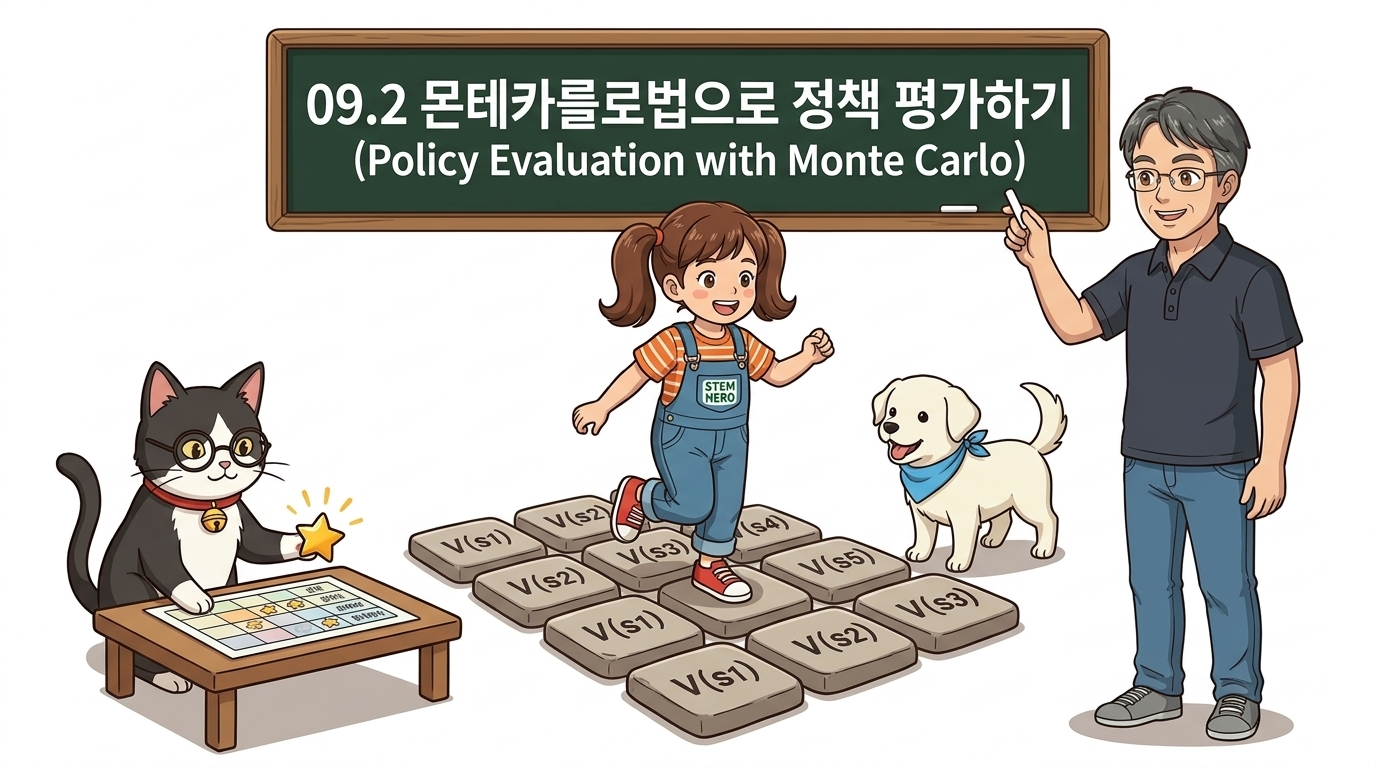
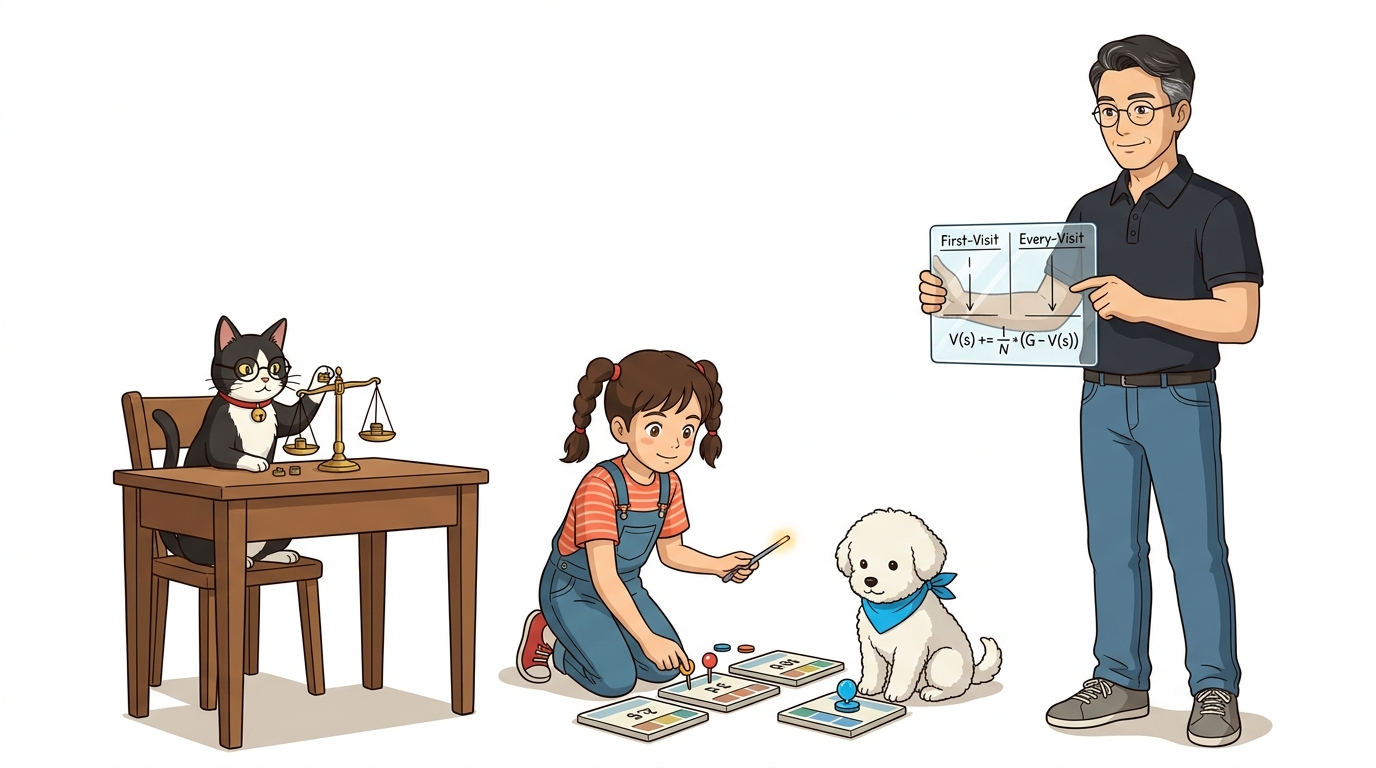
feat(ch09): 9장 몬테카를로법 전 서브챕터(9_0~9_6) 커버 이미지 및 프롬프트 재정의 생성, 지킬 빌드 완료

diff --git a/docs/09_몬테카를로법/9_0_수학적기초/index.html b/docs/09_몬테카를로법/9_0_수학적기초/index.html
@@ -631,6 +631,11 @@
         <div class="bd-content ps-lg-4">
             <h1 id="090-몬테카를로법의-수학적-기초와-역사적-유래">09.0 몬테카를로법의 수학적 기초와 역사적 유래</h1>
 
+<p><img src="./9_0_수학적기초.png" alt="09.0 몬테카를로법의 수학적 기초와 역사적 유래" />
+<strong>그림 09-0-Intro</strong> 무작위 점들을 투하하여 원주율($\pi$)을 추정하며 대수의 법칙과 몬테카를로 근사를 체득하는 이호진 교수와 도로시 탐험대</p>
+
+<hr />
+
 <p>강화학습에서 환경의 수학적 모델(상태 전이 확률과 보상 함수)을 전혀 알지 못해도, 에이전트가 세상에 직접 발을 내딛고 겪은 수많은 실제 모험(에피소드) 샘플들을 모아 평균을 내어 최적 가치와 정책을 찾아내는 기법을 <strong>몬테카를로법(Monte Carlo Method)</strong>이라고 부릅니다.</p>
 
 <p><img src="./img/01_monte_carlo_history_lecture.png" alt="몬테카를로 역사 인트로" />

diff --git a/docs/09_몬테카를로법/9_2_몬테카를로법으로_정책_평가하기/index.html b/docs/09_몬테카를로법/9_2_몬테카를로법으로_정책_평가하기/index.html
@@ -631,6 +631,11 @@
         <div class="bd-content ps-lg-4">
             <h1 id="092-몬테카를로법으로-정책-평가하기">09.2 몬테카를로법으로 정책 평가하기</h1>
 
+<p><img src="./9_2_몬테카를로법으로_정책_평가하기.png" alt="09.2 몬테카를로법으로 정책 평가하기" />
+<strong>그림 09-2-Intro</strong> 처음 방문(First-Visit)과 모든 방문의 차이를 파악하고 증분 평균으로 상태 가치를 갱신하는 이호진 교수와 도로시 탐험대</p>
+
+<hr />
+
 <p>주어진 정책 <em>π</em>에 따라 에피소드 시뮬레이션을 반복하여 상태 가치 함수 <em>v</em><sub><em>π</em></sub>(<em>s</em>)를 근사하는 <strong>정책 평가(Policy Evaluation)</strong> 과정을 배웁니다.</p>
 
 <hr />

diff --git a/docs/09_몬테카를로법/9_4_몬테카를로법으로_정책_제어하기/index.html b/docs/09_몬테카를로법/9_4_몬테카를로법으로_정책_제어하기/index.html
@@ -631,6 +631,11 @@
         <div class="bd-content ps-lg-4">
             <h1 id="094-몬테카를로법으로-정책-제어하기">09.4 몬테카를로법으로 정책 제어하기</h1>
 
+<p><img src="./9_4_몬테카를로법으로_정책_제어하기.png" alt="09.4 몬테카를로법으로 정책 제어하기" />
+<strong>그림 09-4-Intro</strong> 행동 가치 $Q(s, a)$와 $\epsilon$-탐욕 정책을 결합하여 최적 정책을 자율 제어하는 이호진 교수와 도로시 탐험대</p>
+
+<hr />
+
 <p>가치 함수 평가를 넘어 최적 정책을 스스로 찾아 나가는 <strong>정책 제어(Policy Control)</strong>와 탐색-이용의 균형을 다룹니다.</p>
 
 <p><img src="./img/01_mc_control_intro.png" alt="몬테카를로 정책 제어 인트로" />

diff --git a/docs/09_몬테카를로법/9_1_몬테카를로법_기초/index.html b/docs/09_몬테카를로법/9_1_몬테카를로법_기초/index.html
@@ -631,6 +631,11 @@
         <div class="bd-content ps-lg-4">
             <h1 id="091-몬테카를로법-기초">09.1 몬테카를로법 기초</h1>
 
+<p><img src="./9_1_몬테카를로법_기초.png" alt="09.1 몬테카를로법 기초" />
+<strong>그림 09-1-Intro</strong> 모델 없는 미지의 환경에서 실제 에피소드를 완주하며 경험적 반환값($G_t$)을 수집하는 이호진 교수와 도로시 탐험대</p>
+
+<hr />
+
 <p>몬테카를로법(Monte Carlo Method)의 대수적 기초를 공부합니다.</p>
 
 <p>무작위 샘플링을 반복하여 원하는 참값을 추정해내는 원리를 이해하기 위해, 주사위 던지기 실험 및 알려지지 않은 환경 모델의 비유를 통해 샘플 모델의 핵심을 파악해 봅시다!</p>

diff --git a/docs/09_몬테카를로법/9_5_오프-정책과_중요도_샘플링/index.html b/docs/09_몬테카를로법/9_5_오프-정책과_중요도_샘플링/index.html
@@ -631,6 +631,11 @@
         <div class="bd-content ps-lg-4">
             <h1 id="095-오프-정책과-중요도-샘플링">09.5 오프-정책과 중요도 샘플링</h1>
 
+<p><img src="./9_5_오프-정책과_중요도_샘플링.png" alt="09.5 오프-정책과 중요도 샘플링" />
+<strong>그림 09-5-Intro</strong> 행동 정책과 목표 정책의 괴리를 중요도 샘플링 비율($\rho$)로 완벽히 보정하는 이호진 교수와 도로시 탐험대</p>
+
+<hr />
+
 <p>에이전트가 ‘행동하는 정책’과 ‘학습하려는 대상 정책’이 서로 다를 때 활용하는 <strong>오프-정책(Off-policy)</strong> 학습법을 배웁니다.</p>
 
 <p><img src="./img/01_off_policy_intro.png" alt="중요도 샘플링 인트로" />

diff --git a/docs/09_몬테카를로법/9_6_정리/index.html b/docs/09_몬테카를로법/9_6_정리/index.html
@@ -631,6 +631,11 @@
         <div class="bd-content ps-lg-4">
             <h1 id="096-정리">09.6 정리</h1>
 
+<p><img src="./9_6_정리.png" alt="09.6 정리" />
+<strong>그림 09-6-Intro</strong> 모델-프리 경험 학습의 기둥인 몬테카를로법을 총결산하고 1단계 시간차 학습(TD)으로 전진하는 이호진 교수와 도로시 탐험대</p>
+
+<hr />
+
 <p>환경 모델을 전혀 모르는 완전한 백지상태에서도 오직 실제 부딪히며 얻은 경험만으로 가치 함수를 평가하고 최적 정책을 자율 제어해 낸 9장의 대장정을 총결산합니다.</p>
 
 <p><img src="./img/01_ch9_grand_summary_intro.png" alt="9장 정리 인트로" />

diff --git a/docs/09_몬테카를로법/9_3_몬테카를로법_구현/index.html b/docs/09_몬테카를로법/9_3_몬테카를로법_구현/index.html
@@ -631,6 +631,11 @@
         <div class="bd-content ps-lg-4">
             <h1 id="093-몬테카를로법-구현">09.3 몬테카를로법 구현</h1>
 
+<p><img src="./9_3_몬테카를로법_구현.png" alt="09.3 몬테카를로법 구현" />
+<strong>그림 09-3-Intro</strong> 파이썬 시뮬레이션으로 수천 번의 에피소드를 반복하며 상태 가치 수렴을 확인하는 이호진 교수와 도로시 탐험대</p>
+
+<hr />
+
 <p>파이썬 코드를 기반으로 몬테카를로(Monte Carlo, MC) 정책 평가 알고리즘을 한 줄 한 줄 직접 작성해 봅니다.</p>
 
 <p><img src="./img/01_mc_implementation_intro.png" alt="몬테카를로 구현 인트로" />

diff --git a/src/09_몬테카를로법/9_0_수학적기초/index.md b/src/09_몬테카를로법/9_0_수학적기초/index.md
@@ -5,6 +5,11 @@ title: "09.0 몬테카를로법의 수학적 기초와 역사적 유래"
 
 # 09.0 몬테카를로법의 수학적 기초와 역사적 유래
 
+![09.0 몬테카를로법의 수학적 기초와 역사적 유래](./9_0_수학적기초.png)
+**그림 09-0-Intro** 무작위 점들을 투하하여 원주율($\pi$)을 추정하며 대수의 법칙과 몬테카를로 근사를 체득하는 이호진 교수와 도로시 탐험대
+
+---
+
 강화학습에서 환경의 수학적 모델(상태 전이 확률과 보상 함수)을 전혀 알지 못해도, 에이전트가 세상에 직접 발을 내딛고 겪은 수많은 실제 모험(에피소드) 샘플들을 모아 평균을 내어 최적 가치와 정책을 찾아내는 기법을 **몬테카를로법(Monte Carlo Method)**이라고 부릅니다.
 
 

diff --git a/src/09_몬테카를로법/9_4_몬테카를로법으로_정책_제어하기/index.md b/src/09_몬테카를로법/9_4_몬테카를로법으로_정책_제어하기/index.md
@@ -5,6 +5,11 @@ title: "09.4 몬테카를로법으로 정책 제어하기"
 
 # 09.4 몬테카를로법으로 정책 제어하기
 
+![09.4 몬테카를로법으로 정책 제어하기](./9_4_몬테카를로법으로_정책_제어하기.png)
+**그림 09-4-Intro** 행동 가치 $Q(s, a)$와 $\epsilon$-탐욕 정책을 결합하여 최적 정책을 자율 제어하는 이호진 교수와 도로시 탐험대
+
+---
+
 가치 함수 평가를 넘어 최적 정책을 스스로 찾아 나가는 **정책 제어(Policy Control)**와 탐색-이용의 균형을 다룹니다. 
 
 ![몬테카를로 정책 제어 인트로](./img/01_mc_control_intro.png)

diff --git a/src/09_몬테카를로법/9_2_몬테카를로법으로_정책_평가하기/index.md b/src/09_몬테카를로법/9_2_몬테카를로법으로_정책_평가하기/index.md
@@ -5,6 +5,11 @@ title: "09.2 몬테카를로법으로 정책 평가하기"
 
 # 09.2 몬테카를로법으로 정책 평가하기
 
+![09.2 몬테카를로법으로 정책 평가하기](./9_2_몬테카를로법으로_정책_평가하기.png)
+**그림 09-2-Intro** 처음 방문(First-Visit)과 모든 방문의 차이를 파악하고 증분 평균으로 상태 가치를 갱신하는 이호진 교수와 도로시 탐험대
+
+---
+
 주어진 정책 *π*에 따라 에피소드 시뮬레이션을 반복하여 상태 가치 함수 *v*<sub>*π*</sub>(*s*)를 근사하는 **정책 평가(Policy Evaluation)** 과정을 배웁니다. 
 
 ---

diff --git a/src/09_몬테카를로법/9_5_오프-정책과_중요도_샘플링/index.md b/src/09_몬테카를로법/9_5_오프-정책과_중요도_샘플링/index.md
@@ -5,6 +5,11 @@ title: "09.5 오프-정책과 중요도 샘플링"
 
 # 09.5 오프-정책과 중요도 샘플링
 
+![09.5 오프-정책과 중요도 샘플링](./9_5_오프-정책과_중요도_샘플링.png)
+**그림 09-5-Intro** 행동 정책과 목표 정책의 괴리를 중요도 샘플링 비율($\rho$)로 완벽히 보정하는 이호진 교수와 도로시 탐험대
+
+---
+
 에이전트가 '행동하는 정책'과 '학습하려는 대상 정책'이 서로 다를 때 활용하는 **오프-정책(Off-policy)** 학습법을 배웁니다. 
 
 ![중요도 샘플링 인트로](./img/01_off_policy_intro.png)

diff --git a/src/09_몬테카를로법/9_6_정리/index.md b/src/09_몬테카를로법/9_6_정리/index.md
@@ -5,6 +5,11 @@ title: "09.6 정리"
 
 # 09.6 정리
 
+![09.6 정리](./9_6_정리.png)
+**그림 09-6-Intro** 모델-프리 경험 학습의 기둥인 몬테카를로법을 총결산하고 1단계 시간차 학습(TD)으로 전진하는 이호진 교수와 도로시 탐험대
+
+---
+
 환경 모델을 전혀 모르는 완전한 백지상태에서도 오직 실제 부딪히며 얻은 경험만으로 가치 함수를 평가하고 최적 정책을 자율 제어해 낸 9장의 대장정을 총결산합니다.
 
 ![9장 정리 인트로](./img/01_ch9_grand_summary_intro.png)
